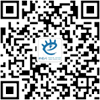
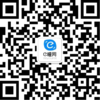
修改为2017年的信息

diff --git a/index.html b/index.html
@@ -1,13 +1,14 @@
+<meta charset="UTF-8">
 <meta name="viewport" content="width=device-width, initial-scale=1">
 <link rel="stylesheet" href="./css/eeyes_common.css">
 <div class="eeyes-common-footer">
     <div class="eeyes-common-footer-banner">
         <h1>精彩有e瞳，美妙无异同</h1>
-        <p><a target="_blank" href="http://www.eeyes.net/"><img class="eeyes-common-footer-banner-logo" src="./images/eeyes_text.png" alt="e瞳网"></a>旗下产品</p>
+        <p><a class="eeyes-common-footer-banner-text" target="_blank" href="http://www.eeyes.net/"><img class="eeyes-common-footer-banner-logo" src="./images/eeyes_text.png" alt="e瞳网"></a><span class="eeyes-common-footer-banner-text">旗下产品</span></p>
     </div>
     <div class="eeyes-common-footer-body">
         <div class="eeyes-common-footer-logo-container">
-            <a target="_blank" href="http://www.eeyes.net/"><img class="eeyes-common-footer-logo" src="./images/eeyes_logo.png" alt="eeyes logo"></a>
+            <a target="_blank" href="http://www.eeyes.net/"><img class="eeyes-common-footer-logo" src="./images/eeyes_logo.gif" alt="eeyes logo"></a>
         </div>
         <div class="eeyes-common-footer-main">
             <div class="eeyes-common-footer-main-block">
@@ -76,8 +77,8 @@
                             <img src="./images/icon_qq.png" alt="新生群">
                         </div>
                         <div class="eeyes-common-footer-main-block-icon-list-text-container">
-                            <p>新生交流群(2016)</p>
-                            <p>552035254</p>
+                            <p>新生交流群(2017)</p>
+                            <p>657813400</p>
                         </div>
                     </li>
                     <li>

diff --git a/css/eeyes_common.css b/css/eeyes_common.css
@@ -42,7 +42,7 @@
 .eeyes-common-footer-banner-logo {
     margin-right: .2em;
     height: 1em;
-    vertical-align: middle;
+    vertical-align: top;
 }
 
 .eeyes-common-footer-banner-text {
